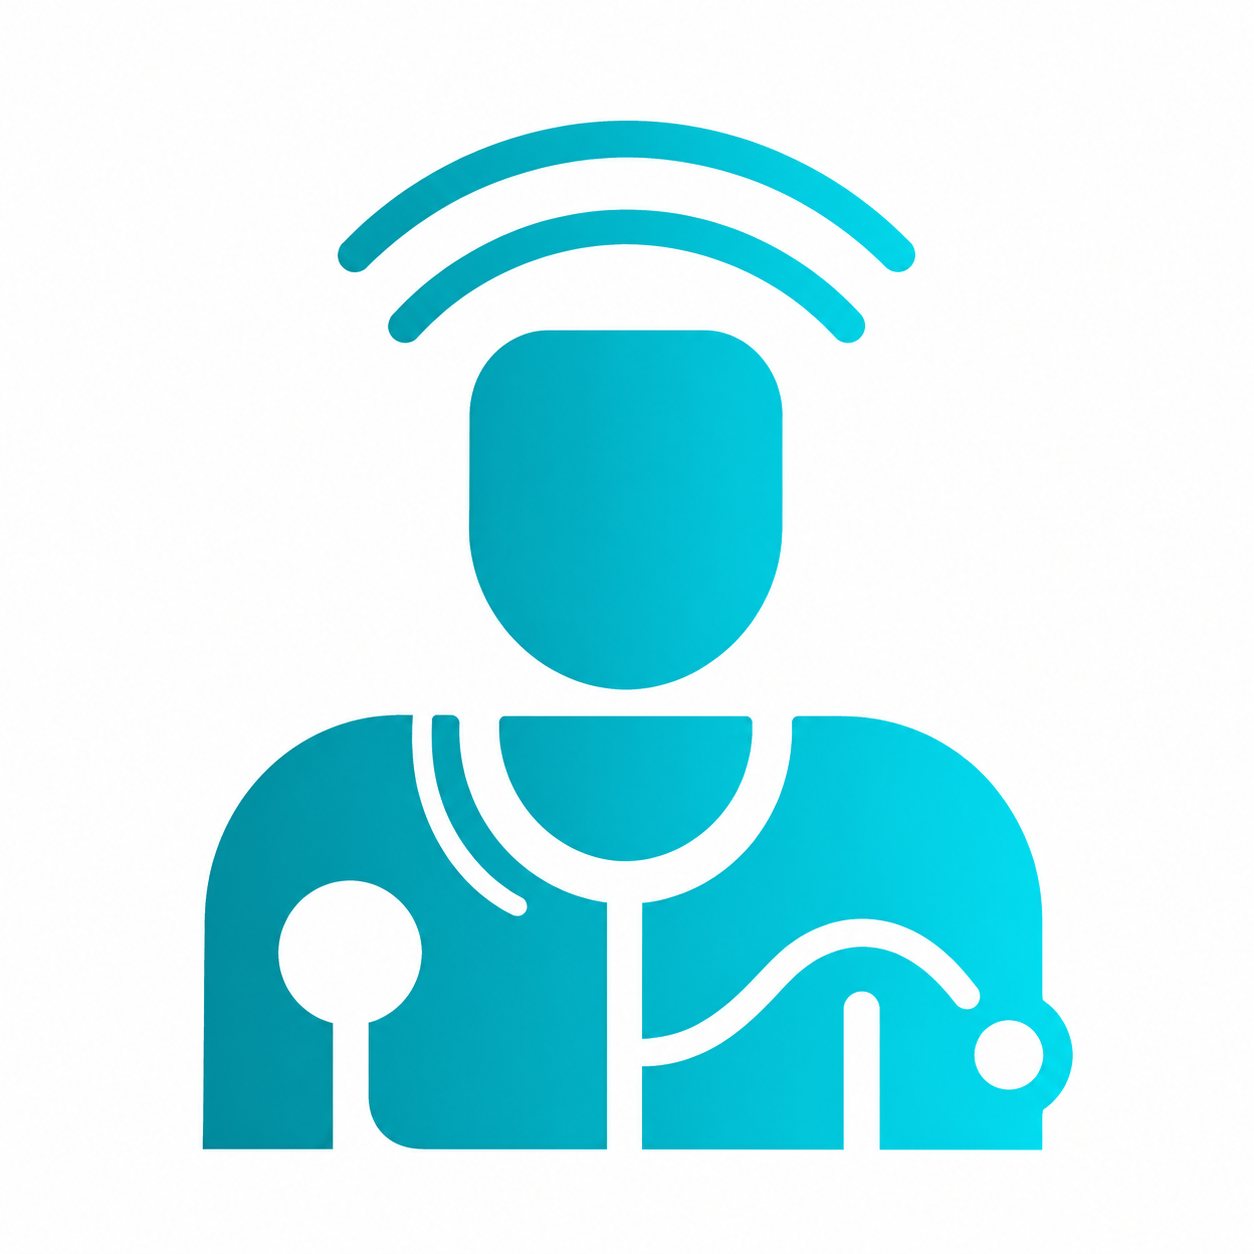
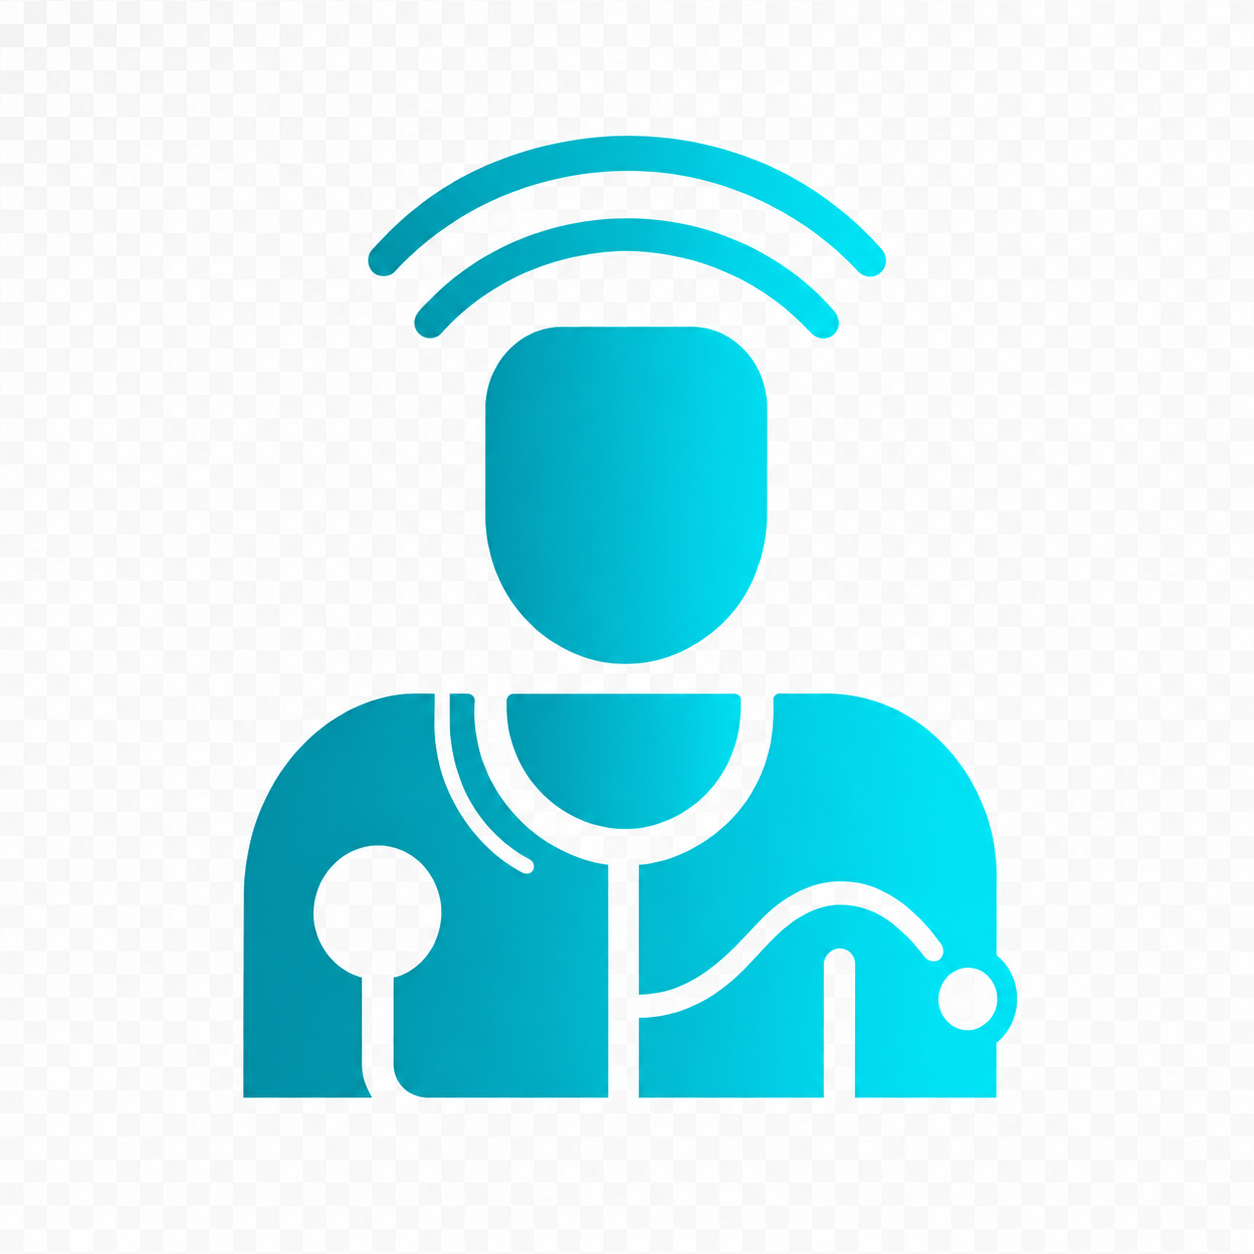
Add patient app public brand and visual assets

diff --git a/apps/patient-app/public/brand/README.md b/apps/patient-app/public/brand/README.md
@@ -1,0 +1,12 @@
+Copy these two production brand files here before running the landing app:
+
+- ambulant-mark.png
+- ambulant-logo-full.png
+
+Recommended source:
+apps/patient-app/public/brand/ambulant-mark.png
+apps/patient-app/public/brand/ambulant-logo-full.png
+
+The landing app consumes them at:
+- /brand/ambulant-mark.png
+- /brand/ambulant-logo-full.png
